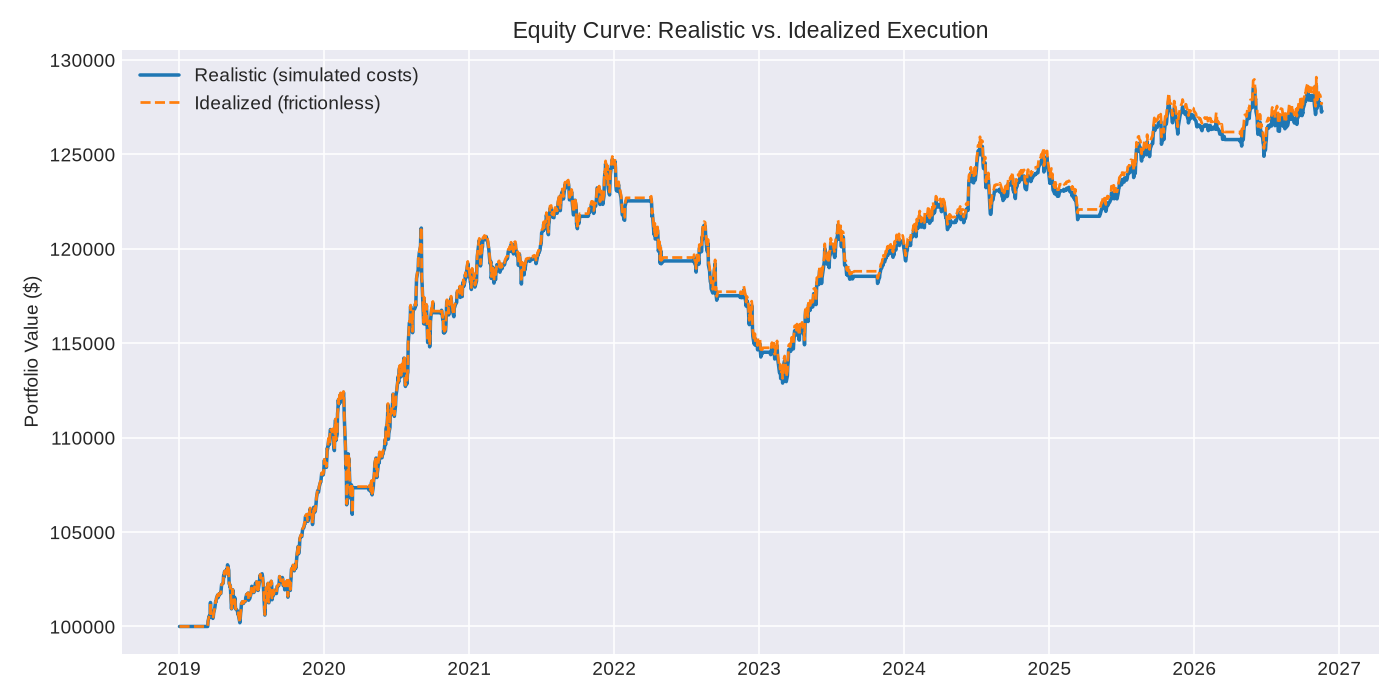
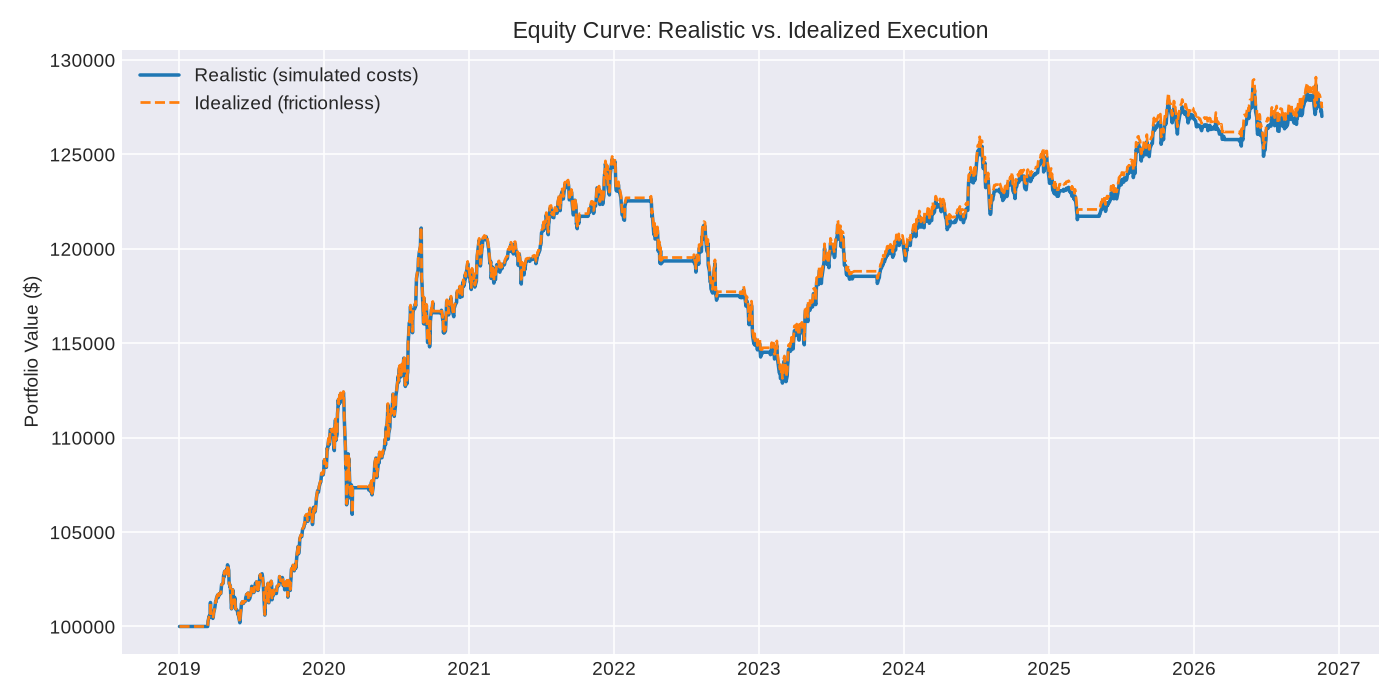
deploy: fa8f349f4ee45652f0eb53e659695396af41002b

diff --git a/index.html b/index.html
@@ -11,9 +11,9 @@ img { max-width: 100%; margin-bottom: 24px; border: 1px solid #30363d; border-ra
 </style></head>
 <body>
 <h1>Event-Driven Backtest Tearsheet</h1>
-<p class="timestamp">Auto-generated 2026-11-19 02:41 UTC — this page regenerates every scheduled run, no manual step involved.</p>
+<p class="timestamp">Auto-generated 2026-11-20 02:27 UTC — this page regenerates every scheduled run, no manual step involved.</p>
 <h2>Summary</h2>
-<table><tr><td>Initial Capital</td><td>100000</td></tr><tr><td>Final Equity Realistic</td><td>127,289.4382</td></tr><tr><td>Final Equity Idealized</td><td>127,725.8482</td></tr><tr><td>Realistic Pnl</td><td>27,289.4382</td></tr><tr><td>Idealized Pnl</td><td>27,725.8482</td></tr><tr><td>Execution Cost Drag</td><td>436.4100</td></tr><tr><td>Execution Cost Drag Pct Of Idealized</td><td>0.0157</td></tr><tr><td>Total Return Pct</td><td>0.2729</td></tr><tr><td>Annualized Return</td><td>0.0312</td></tr><tr><td>Sharpe Ratio</td><td>0.7201</td></tr><tr><td>Sortino Ratio</td><td>0.7953</td></tr><tr><td>Max Drawdown</td><td>-0.0950</td></tr><tr><td>Turnover</td><td>10.5459</td></tr><tr><td>Num Fills</td><td>122</td></tr><tr><td>Total Slippage Dollars</td><td>314.0446</td></tr><tr><td>Total Commission Dollars</td><td>122.3654</td></tr><tr><td>Avg Latency Ms</td><td>81.4816</td></tr><tr><td>Num Partial Fills</td><td>0</td></tr></table>
+<table><tr><td>Initial Capital</td><td>100000</td></tr><tr><td>Final Equity Realistic</td><td>127,006.0897</td></tr><tr><td>Final Equity Idealized</td><td>127,442.5007</td></tr><tr><td>Realistic Pnl</td><td>27,006.0897</td></tr><tr><td>Idealized Pnl</td><td>27,442.5007</td></tr><tr><td>Execution Cost Drag</td><td>436.4110</td></tr><tr><td>Execution Cost Drag Pct Of Idealized</td><td>0.0159</td></tr><tr><td>Total Return Pct</td><td>0.2701</td></tr><tr><td>Annualized Return</td><td>0.0308</td></tr><tr><td>Sharpe Ratio</td><td>0.7134</td></tr><tr><td>Sortino Ratio</td><td>0.7884</td></tr><tr><td>Max Drawdown</td><td>-0.0950</td></tr><tr><td>Turnover</td><td>10.5455</td></tr><tr><td>Num Fills</td><td>122</td></tr><tr><td>Total Slippage Dollars</td><td>314.0456</td></tr><tr><td>Total Commission Dollars</td><td>122.3654</td></tr><tr><td>Avg Latency Ms</td><td>81.4816</td></tr><tr><td>Num Partial Fills</td><td>0</td></tr></table>
 <h2>Equity Curve</h2>
 <img src="equity_curve.png">
 <h2>Drawdown</h2>
